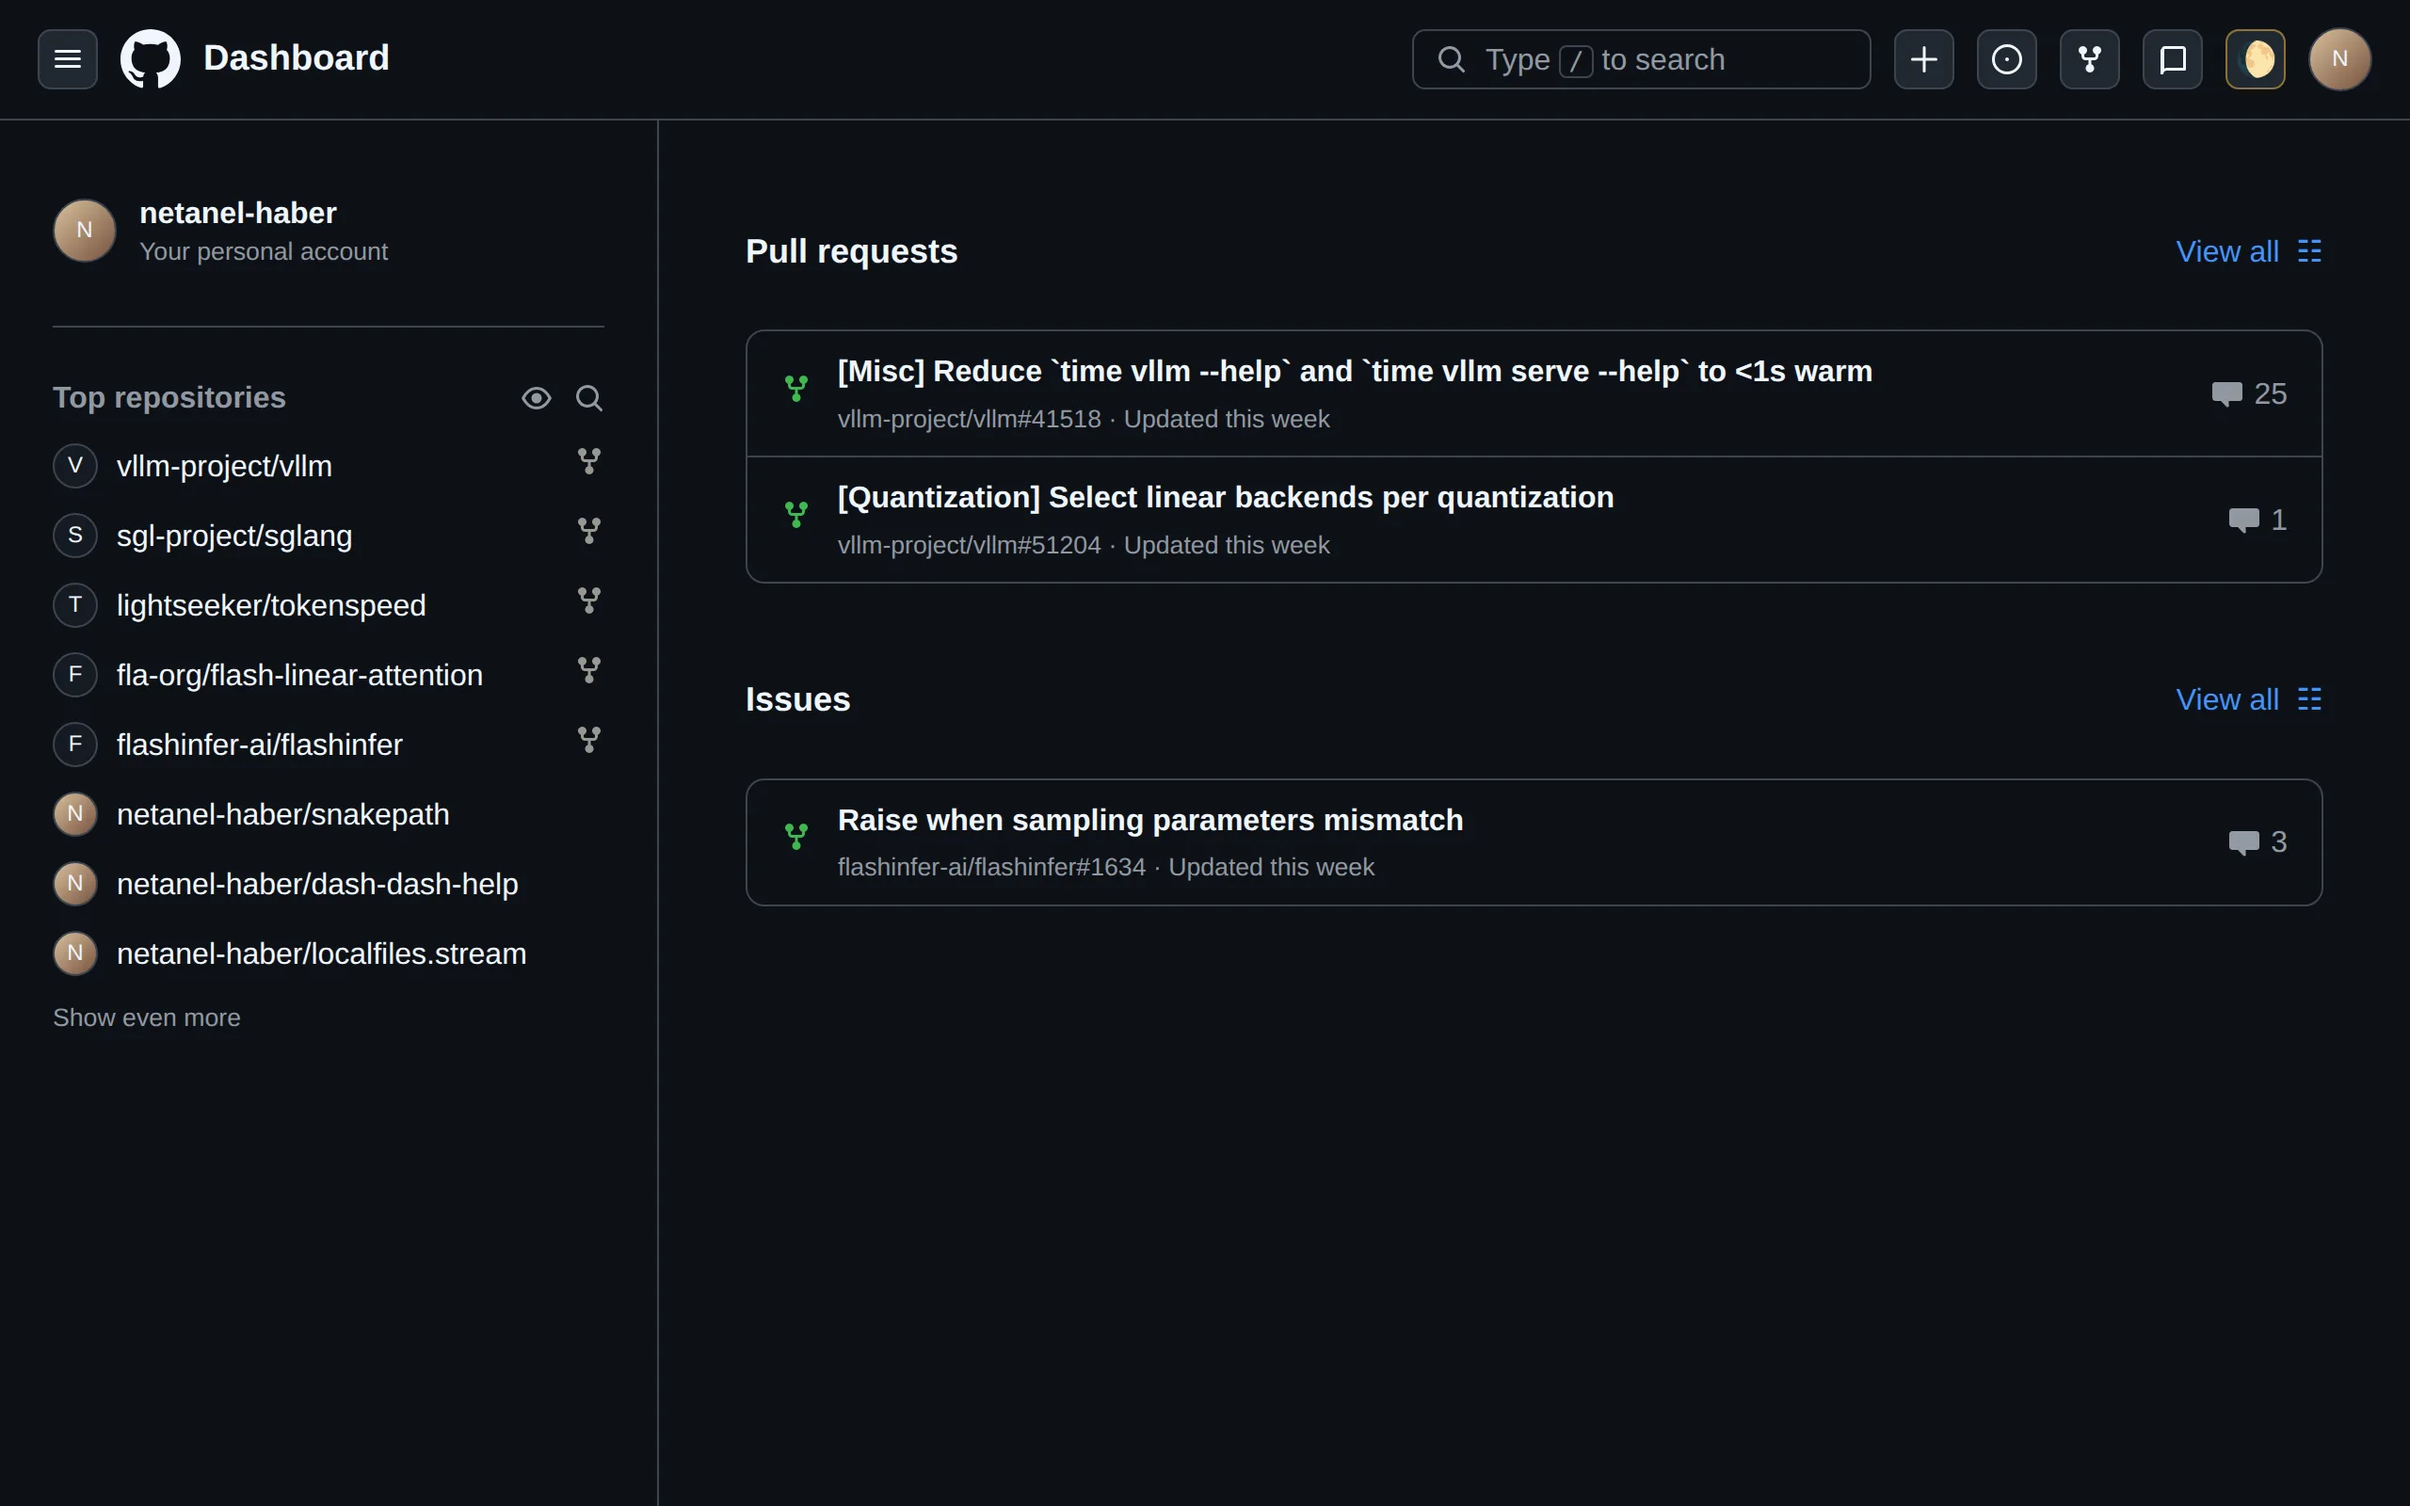
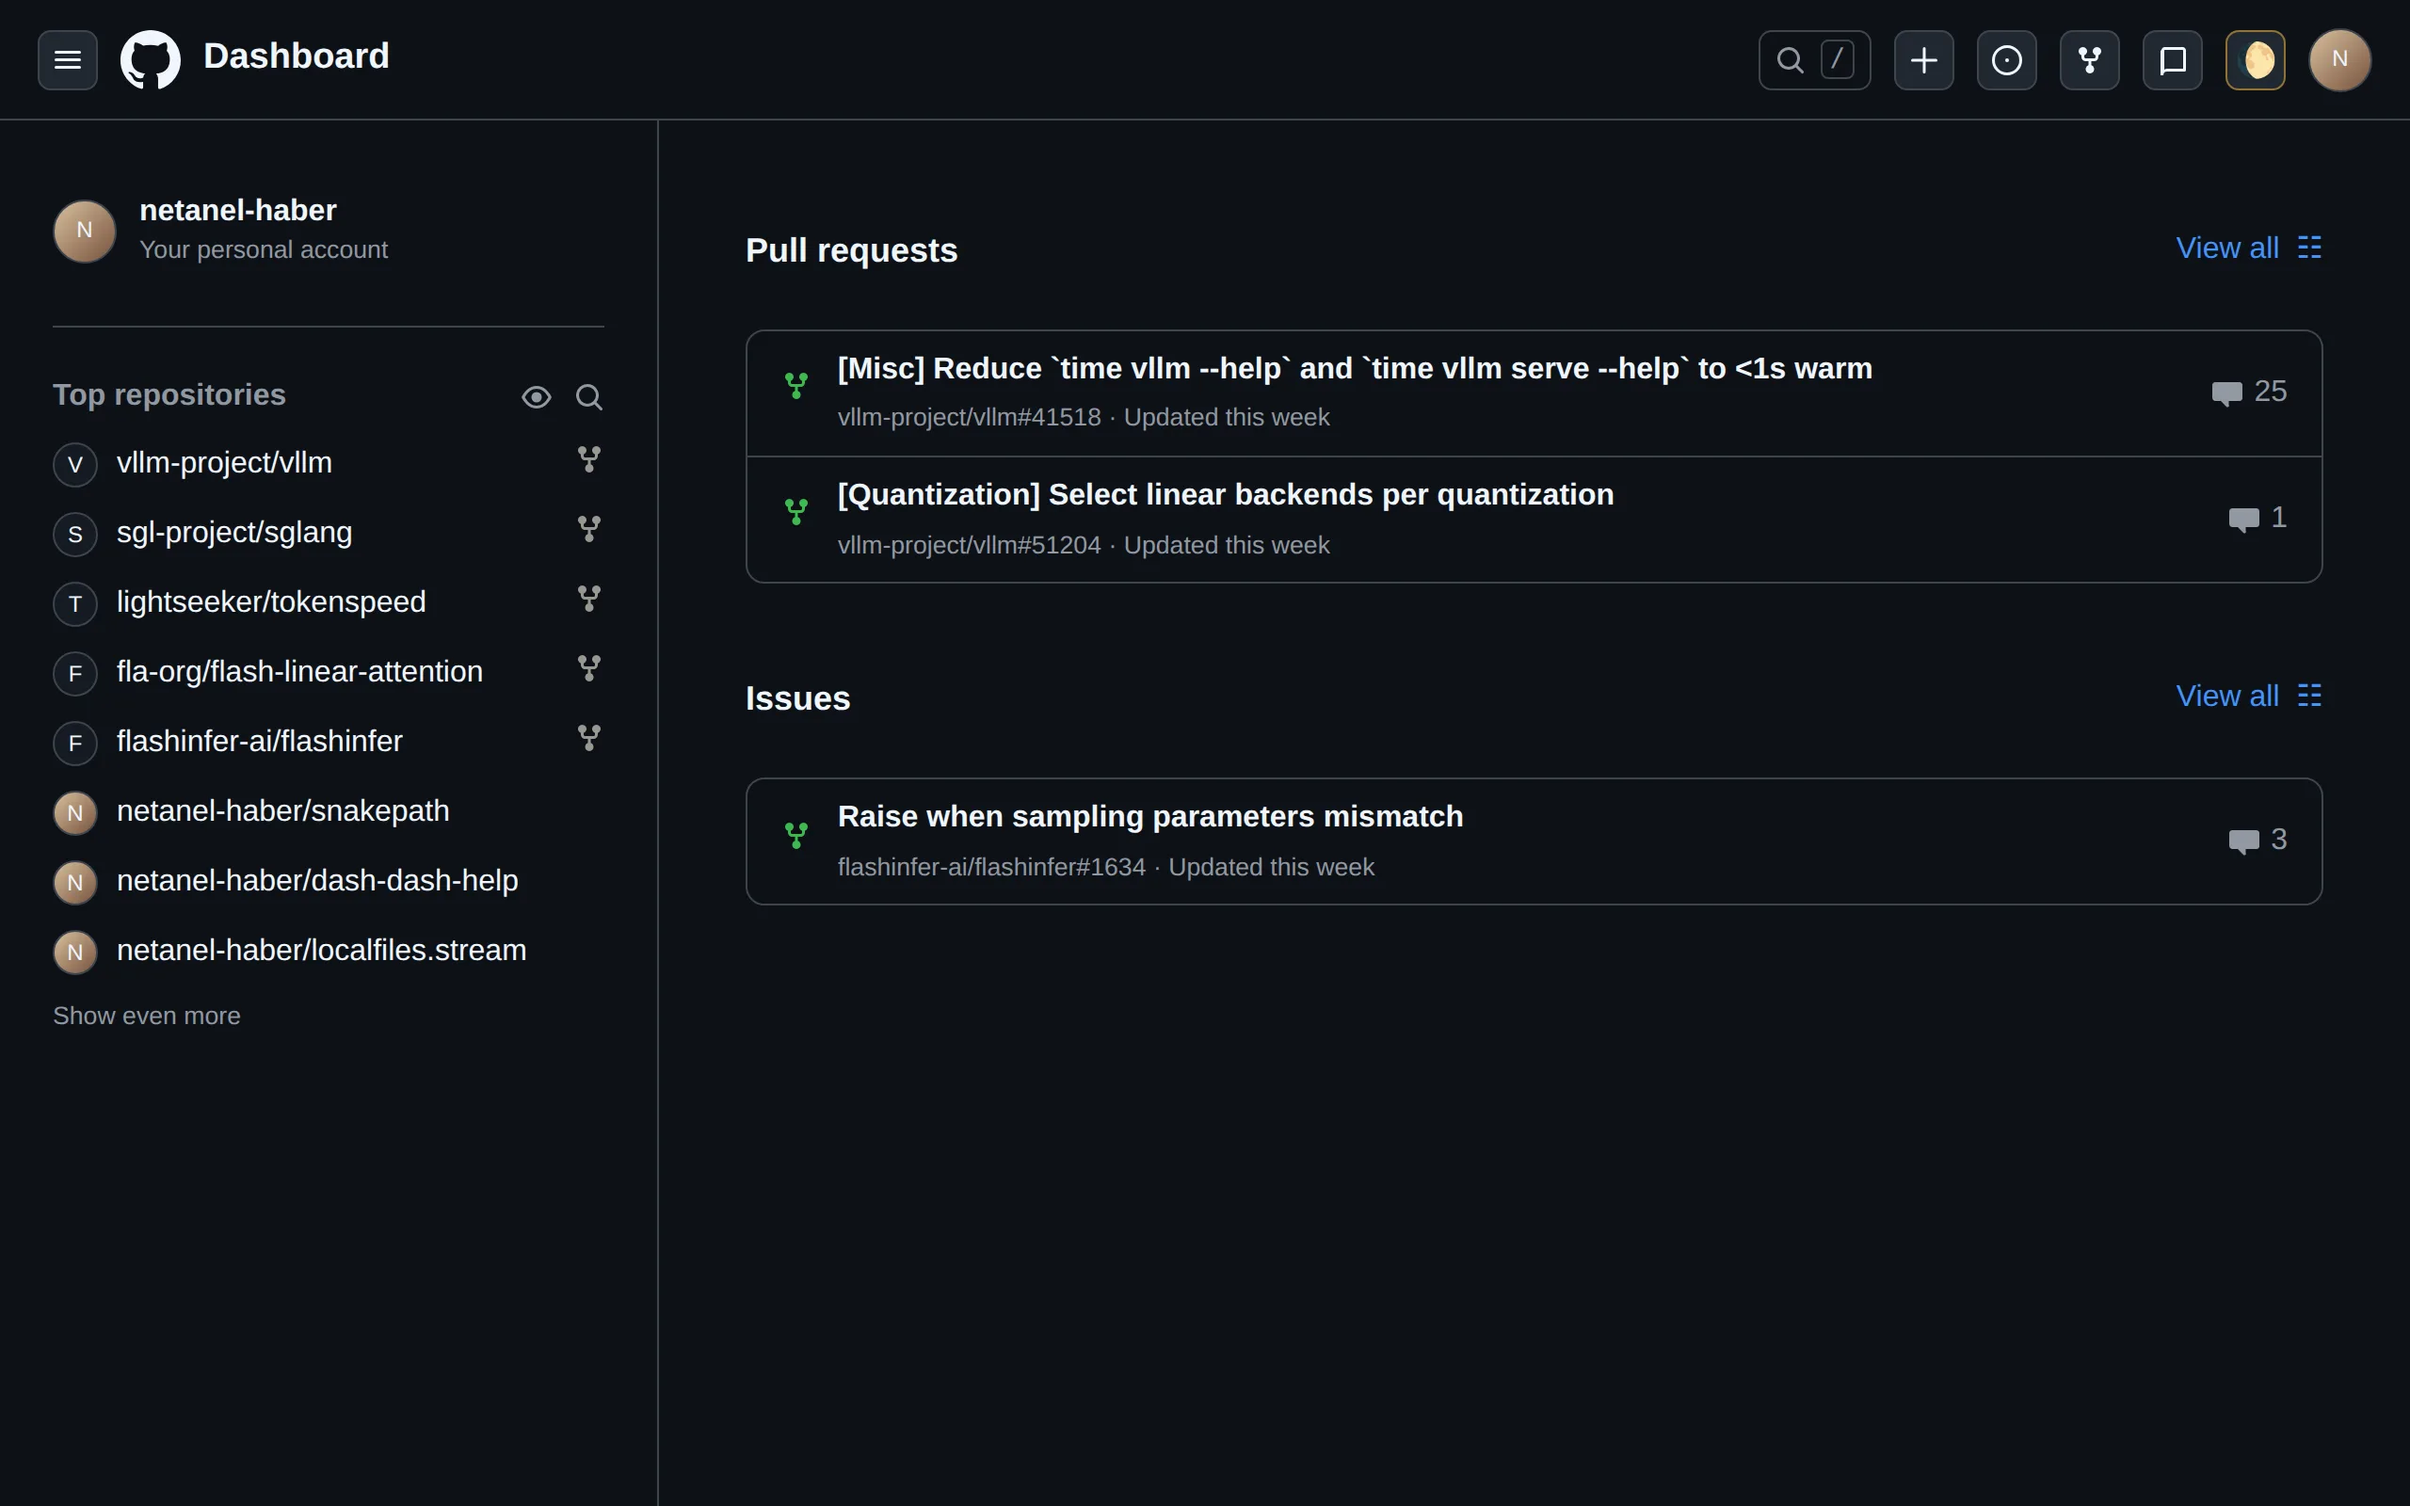
Fold the demo's repository tabs into the header when Gibbous is on
Matches the extension: repository tabs share the global header row and search
collapses to its icon and the / key. Fallbacks re-rendered.

diff --git a/docs/demo.js b/docs/demo.js
@@ -63,15 +63,17 @@ const gibbousButton = state => `
 
 const avatar = (label, className = "") => `<span class="avatar ${className}" aria-hidden="true">${label}</span>`;
 
-const appHeader = (state, title = "lunar-labs / orbit") => `
-  <header class="app-header" data-token="bgColor-default">
+// With Gibbous on, search collapses to its icon and repository tabs fold into the header row.
+const appHeader = (state, title = "lunar-labs / orbit", tabs = "") => `
+  <header class="app-header ${tabs && state === "after" ? "folded" : ""}" data-token="bgColor-default">
     <div class="app-brand">
       ${iconButton("menu", "Open global navigation")}
       ${githubMark()}
       <strong>${title}</strong>
     </div>
+    ${state === "after" ? tabs : ""}
     <div class="app-actions">
-      <span class="search-control">${icon("search")}<span>Type <kbd>/</kbd> to search</span></span>
+      <span class="search-control">${icon("search")}${state === "after" ? "<kbd>/</kbd>" : "<span>Type <kbd>/</kbd> to search</span>"}</span>
       ${iconButton("plus", "Create new")}
       ${iconButton("issue", "Issues")}
       ${iconButton("fork", "Pull requests")}
@@ -79,7 +81,8 @@ const appHeader = (state, title = "lunar-labs / orbit") => `
       ${gibbousButton(state)}
       ${avatar("N")}
     </div>
-  </header>`;
+  </header>
+  ${state === "before" ? tabs : ""}`;
 
 const tab = (iconName, label, selected = false, count = "") => `
   <span class="repository-tab ${selected ? "selected" : ""}">${icon(iconName)}<span>${label}</span>${count ? `<b>${count}</b>` : ""}</span>`;
@@ -257,21 +260,18 @@ const dashboardScene = state => `
   </div>`;
 
 const repositoryScene = state => `
-  ${appHeader(state)}
-  ${repositoryTabs({state})}
+  ${appHeader(state, undefined, repositoryTabs({state}))}
   ${repositoryOverview(state)}`;
 
 const pullRequestsScene = state => `
-  ${appHeader(state)}
-  ${repositoryTabs({state, selected: "pulls", shortcuts: true})}
+  ${appHeader(state, undefined, repositoryTabs({state, selected: "pulls", shortcuts: true}))}
   <main class="pulls-page">
     <div class="pulls-heading"><h1>Pull requests</h1><span>Labels&nbsp;&nbsp; Milestones</span></div>
     <div class="list-card">${pullRequestRow("Improve scheduler wide-N alignment", "lunar-labs/orbit#49099", 1)}${pullRequestRow("Add SSD prefill backend", "lunar-labs/orbit#49425", 1)}${pullRequestRow("Reduce warm startup below one second", "lunar-labs/orbit#41518", 22)}</div>
   </main>`;
 
 const filesScene = state => `
-  ${appHeader(state)}
-  ${repositoryTabs({state, shortcuts: true})}
+  ${appHeader(state, undefined, repositoryTabs({state, shortcuts: true}))}
   ${repositoryBody(state)}`;
 
 const navigationItems = [

diff --git a/docs/demo.css b/docs/demo.css
@@ -312,6 +312,24 @@ code {
   width: 244px;
 }
 
+.search-control:has(> kbd) {
+  gap: 8px;
+  padding: 0 8px;
+  width: auto;
+}
+
+.app-header.folded {
+  gap: 28px;
+}
+
+.app-header.folded .repository-tabs {
+  border: 0;
+  flex: 1;
+  height: 100%;
+  min-width: 0;
+  padding: 0;
+}
+
 kbd {
   border: 1px solid var(--borderColor-default);
   border-radius: 4px;
